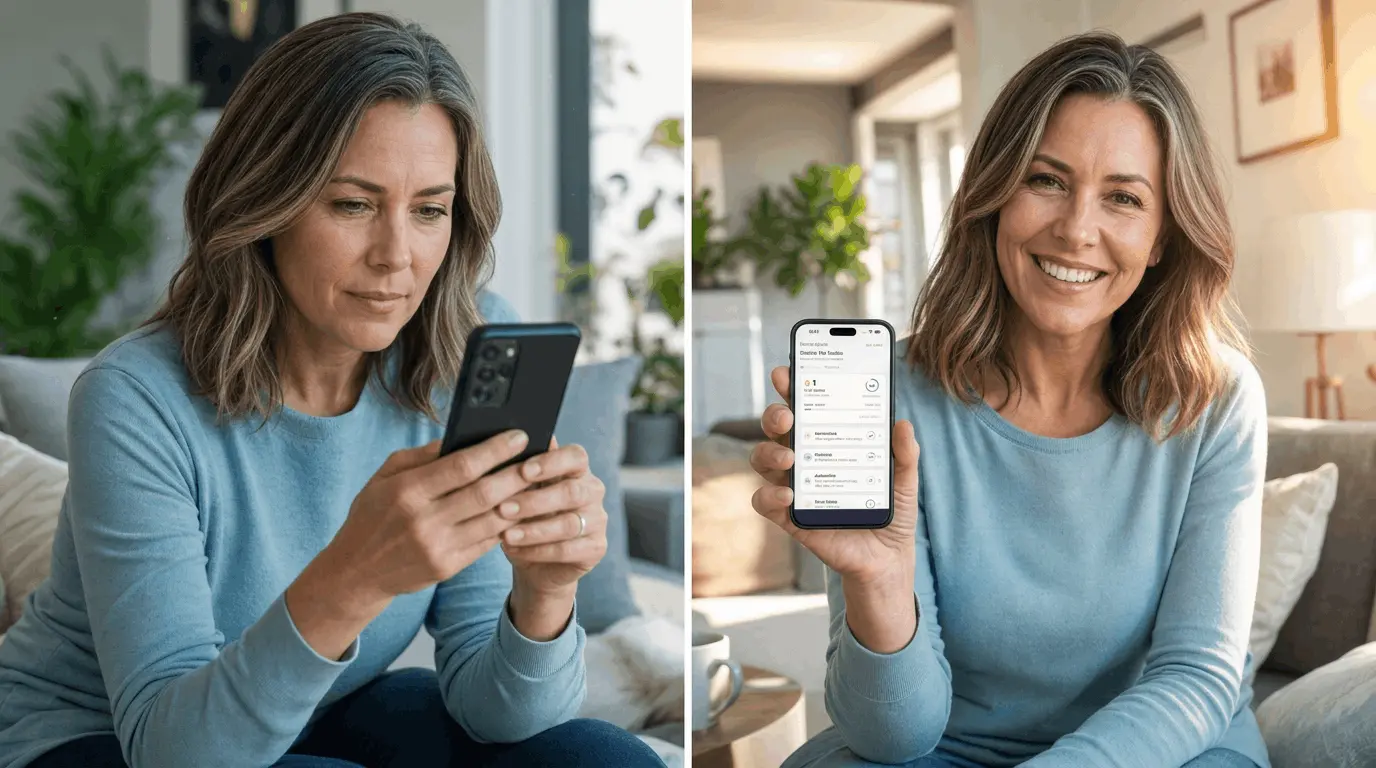
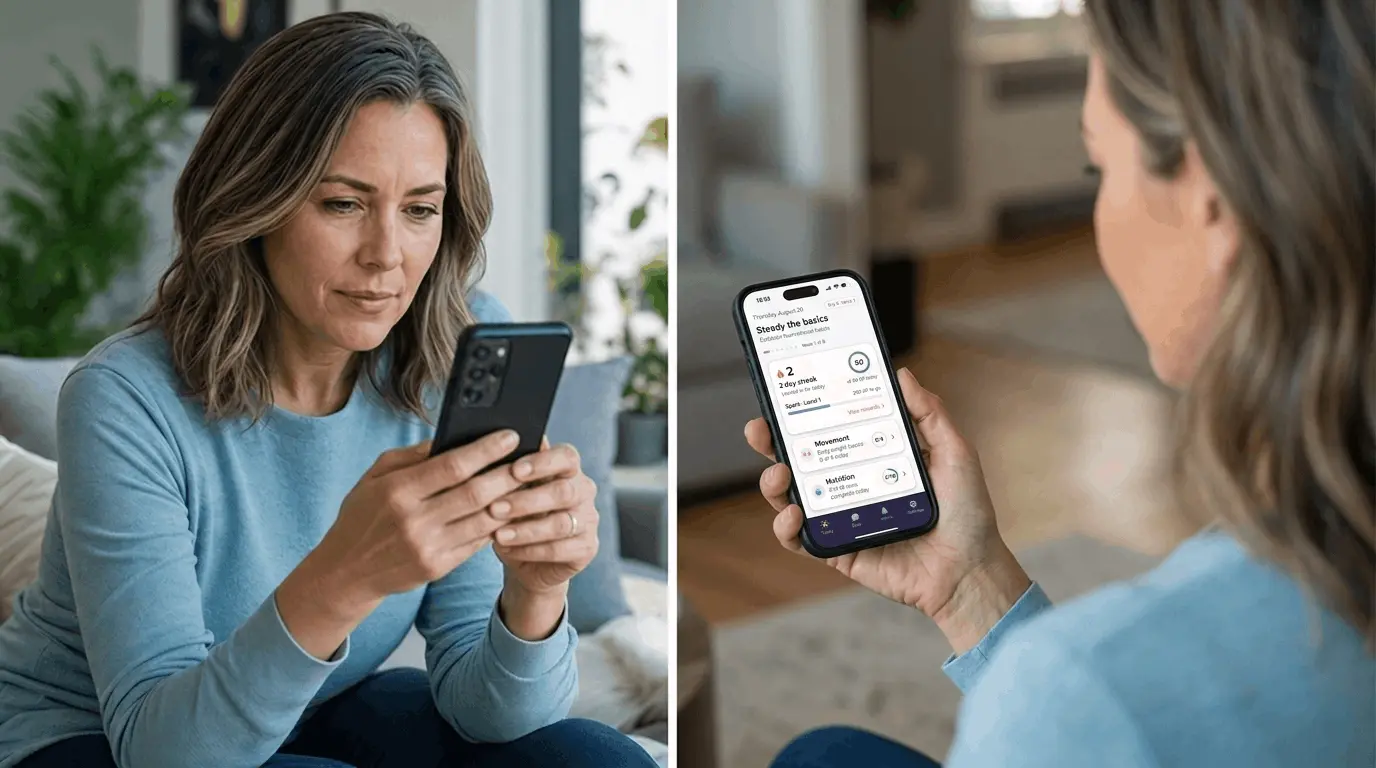
start screen

diff --git a/app/register/page.tsx b/app/register/page.tsx
@@ -3517,9 +3517,12 @@ function RegisterPageContent() {
           least committed. Price, credentials and a testimonial wall still stay
           off this screen. It has to answer three things and nothing else: what
           she walks away with (a personalized 8-week plan), what it costs her
-          (2 minutes), and whether she can actually do it (three tasks anyone
-          can do, 15 minutes a day). The 2026-08-18 pass was about the order and
-          weight of those three, not about adding a fourth.
+          (2 minutes), and whether she can actually do it. The 2026-08-18 pass
+          was about the order and weight of those three, not about adding a
+          fourth; the 2026-08-20 pass cut the screen from seven message blocks
+          to four, because it had grown dense in *mechanism* and thin in
+          *outcome* - seventy words, not one of which said what she walks away
+          with. See the card comment below for what moved downstream and why.
           The one exception is the hero photo (2026-08-17): a
           real before/after - scrolling alone, then holding her plan, smiling -
           so the promise in the headline below is something she sees happen to
@@ -3553,10 +3556,12 @@ function RegisterPageContent() {
                   one transformation - the whole reason it is here. The seam is
                   drawn, the halves are named, and the arrow states the direction,
                   so the before/after is on the screen instead of in the alt text.
-                  The right-hand label is the CTA's "takes 2 minutes" promise
-                  attached to the picture of the payoff, 200px above where she
-                  reads the words. Rose = the load she carries now, green = what
-                  closes it, per the funnel's colour rule. */}
+                  The right-hand label names the *plan* as the thing that closes
+                  the gap. It read "In 2 minutes" until 2026-08-20, which pinned
+                  the screen's strongest outcome image to how long the quiz takes
+                  - and was the third mention of two minutes on one screen. Rose
+                  = the load she carries now, green = what closes it, per the
+                  funnel's colour rule. */}
               <div
                 aria-hidden
                 className="pointer-events-none absolute inset-y-0 left-1/2 w-px -translate-x-1/2 bg-white/70"
@@ -3569,7 +3574,7 @@ function RegisterPageContent() {
                   </span>
                   <span className="flex items-center justify-center gap-1.5 text-[10px] sm:text-[11px] font-bold uppercase tracking-wide text-white">
                     <span className="h-1.5 w-1.5 rounded-full bg-[#4ADE80]" />
-                    In 2 minutes
+                    With your plan
                   </span>
                 </div>
                 <span
@@ -3591,60 +3596,81 @@ function RegisterPageContent() {
             </motion.h1>
 
             {/* The reframe. It has to land before she is asked to do any work -
-                self-blame is what keeps her from starting at all. */}
+                self-blame is what keeps her from starting at all.
+
+                It opened on the symptom list ("The sleep, the weight gain, the
+                mood") until 2026-08-20. That was the most specific thing on the
+                screen and it was spent at 22 words, at the moment she is
+                deciding whether to keep reading at all - and the word
+                "symptoms" now does the same job one block down, where it sells
+                the personalization rather than only naming the problem. */}
             <motion.p
               initial={prefersReducedMotion ? false : { opacity: 0, y: 10 }}
               animate={{ opacity: 1, y: 0 }}
               transition={{ delay: prefersReducedMotion ? 0 : 0.28, duration: 0.4 }}
               className="mt-2.5 text-sm sm:text-base text-[#5A5A5A] leading-snug px-2"
             >
-              The sleep, the weight gain, the mood - it isn&apos;t in your head, and it isn&apos;t your
-              fault. <span className="font-semibold text-[#3D3D3D]">Your hormones changed the
+              It isn&apos;t in your head, and it isn&apos;t your fault.{" "}
+              <span className="font-semibold text-[#3D3D3D]">Your hormones changed the
               rules.</span>
             </motion.p>
 
-            {/* What she actually walks away with.
+            {/* What she actually walks away with - the product, in one card.
 
-                The headline used to lead with "Answer 13 questions" - a cost
-                statement, bolded, above a 2-minute promise set in 11px grey. She
-                read the price of the quiz at full weight and the reassurance at
-                the page's lowest priority. The outcome leads now; the effort
-                moved down to the CTA bar where it belongs, and got readable.
+                Until 2026-08-20 this was a three-column mechanism row (a 10-min
+                walk / protein at breakfast / 2 min of breathing) under the plan
+                promise, closed by "About 15 minutes a day. No gym, no cutting
+                out food groups." Both are good arguments and both belong later:
+                the mechanism is what <PlanStage /> animates on the diagnosis
+                screen, and objection handling only works once an objection
+                exists. Four seconds off a cold ad click she has not decided she
+                wants this yet, so the screen was answering questions she had not
+                asked - and spending the plan screen's ammunition early, which is
+                the mistake the 2026-08-16 pass had just undone on results.
 
-                The row shows each pillar's real `task` rather than its `label`.
-                "Movement / Nutrition / Relaxation" reads to an exhausted
-                45-60 woman as three more disciplines to fail at - a gym, a diet
-                and a meditation practice. "10-min walk / 25-30g protein at
-                breakfast / 4-7-8 breathing" is the same three pillars stated as
-                things anyone can do today, which is the whole point of the
-                screen. The data is already in PLAN_PILLARS; only the field
-                changed. The closing line is the daily budget the plan screen
-                already quotes, promoted out of 2.85:1 grey. */}
+                What replaced them is the outcome the plan is actually bought
+                for, in the funnel's own words: GOAL_PROMISE's generic fallback
+                is "Feel like yourself again", which closes the exact sentence
+                the headline opens with. Two checks, not three - three reads as a
+                list to skim, two reads as a promise. The first sells the
+                personalization, i.e. the only reason to answer a dozen
+                questions rather than download a generic PDF;
+                the second is the "can I actually do this" answer the 15-minutes
+                line used to carry, at one clause instead of a row plus a
+                sentence.
+
+                Green on the checks per the funnel's colour rule - the plan is
+                what closes the gap. Pink stays on the CTA and nothing else.
+
+                Deliberately absent: her wellbeing score. It is a fear device for
+                the results screen, and teasing it here as the payoff would sell
+                the diagnosis instead of the plan - see the header of
+                lib/planTimeline.ts, which refuses it at the paywall for exactly
+                the same reason. */}
             <motion.div
               initial={prefersReducedMotion ? false : { opacity: 0, y: 10 }}
               animate={{ opacity: 1, y: 0 }}
               transition={{ delay: prefersReducedMotion ? 0 : 0.4, duration: 0.4 }}
-              className="mt-5 w-full rounded-2xl border border-foreground/10 bg-card px-4 py-3.5 shadow-sm"
+              className="mt-5 w-full rounded-2xl border border-foreground/10 bg-card px-4 py-4 shadow-sm"
             >
               <p className="text-base sm:text-lg font-bold text-[#3D3D3D] leading-snug">
-                Your <HighlightSweep>personalized {PLAN_WEEKS}-week plan</HighlightSweep>,
-                built around your symptoms
+                Your <HighlightSweep>personalized {PLAN_WEEKS}-week plan</HighlightSweep> to
+                feel like yourself again
               </p>
-              <div className="mt-3.5 flex items-start justify-center gap-2 sm:gap-4">
-                {PLAN_PILLARS.slice(0, 3).map((pillar) => (
-                  <div key={pillar.key} className="flex flex-col items-center gap-1.5 w-[5.25rem]">
-                    <span className={cn("flex h-9 w-9 shrink-0 items-center justify-center rounded-full", pillar.chip)}>
-                      <pillar.icon className={cn("w-4 h-4", pillar.tint)} />
-                    </span>
-                    <span className="text-xs font-medium text-[#5A5A5A] leading-tight">
-                      {pillar.short}
-                    </span>
-                  </div>
-                ))}
-              </div>
-              <p className="mt-3.5 text-xs text-[#5A5A5A] leading-snug">
-                About 15 minutes a day. No gym, no cutting out food groups.
-              </p>
+              <ul className="mt-3 flex flex-col gap-2 text-left">
+                <li className="flex items-start gap-2">
+                  <Check className="mt-0.5 h-4 w-4 shrink-0 text-[#16A34A]" strokeWidth={3} />
+                  <span className="text-sm text-[#5A5A5A] leading-snug">
+                    Built around the symptoms hitting you hardest
+                  </span>
+                </li>
+                <li className="flex items-start gap-2">
+                  <Check className="mt-0.5 h-4 w-4 shrink-0 text-[#16A34A]" strokeWidth={3} />
+                  <span className="text-sm text-[#5A5A5A] leading-snug">
+                    A few small steps a day, from week 1 to week {PLAN_WEEKS}
+                  </span>
+                </li>
+              </ul>
             </motion.div>
 
           </motion.div>
@@ -3665,19 +3691,25 @@ function RegisterPageContent() {
           animates opacity only, so it never becomes the containing block for a
           fixed child - the four other phases already pin bars inside it.
 
-          The sub-line carries all three of the screen's cost answers at a size
-          she can actually read (13px #5A5A5A is 6.9:1; the 11px #9A9A9A it
-          replaces was 2.85:1, i.e. the hardest text on the page belonged to the
-          audience least able to resolve it). "Free quiz" rather than "free to
-          take", which sat one line under the plan promise and could be read as
-          the plan being free 90 seconds before a $59 paywall. "Taps" rather
-          than "questions" because 8 of the 13 steps are auto-advancing image
-          tiles and only q_body and q8_name type anything - and because the
-          count is a cost, so it belongs here at footnote weight rather than
-          bolded above the outcome. "No email needed" is the funnel's strongest
-          unused fact: she genuinely gives no address until Stripe (see
-          "Anonymous accounts"), and "will they spam me" is a top objection on a
-          cold ad click. */}
+          The sub-line answers "what does this cost me" at a size she can
+          actually read (13px #5A5A5A is 6.9:1; the 11px #9A9A9A it replaces was
+          2.85:1, i.e. the hardest text on the page belonged to the audience
+          least able to resolve it). "Free quiz" rather than "free to take",
+          which sat one line under the plan promise and could be read as the plan
+          being free 90 seconds before a $59 paywall. "No email needed" is the
+          funnel's strongest unused fact: she genuinely gives no address until
+          Stripe (see "Anonymous accounts"), and "will they spam me" is a top
+          objection on a cold ad click.
+
+          It read "Free quiz - 2 minutes - {QUESTION_STEPS.length} taps - no
+          email needed" until 2026-08-20. The count was the only pure *cost* in
+          the line - the other three items are all things she gets - and it was
+          stated at the exact moment she decides whether to start at all.
+          "2 minutes" already answers the same question in the unit she cares
+          about, so the count bought nothing and priced the quiz twice. (It said
+          "taps" rather than "questions" for a good reason, which still holds if
+          it ever comes back: 8 of the steps are auto-advancing image tiles and
+          only q_body and q8_name type anything.) */}
       {phase === "start" && (
         <motion.div
           initial={prefersReducedMotion ? false : { opacity: 0, y: 10 }}
@@ -3696,7 +3728,7 @@ function RegisterPageContent() {
               <ArrowRight className="w-4 h-4" />
             </button>
             <p className="text-xs text-[#5A5A5A] text-center mt-2 leading-snug">
-              Free quiz · 2 minutes · {QUESTION_STEPS.length} taps · no email needed
+              Free quiz · 2 minutes · no email needed
             </p>
           </div>
         </motion.div>

diff --git a/lib/planPillars.ts b/lib/planPillars.ts
@@ -2,10 +2,16 @@
  * The shape of the plan: the four things she does each day, and the arc those
  * days follow over the {@link PLAN_WEEKS} weeks.
  *
- * Shared by the /register start screen (which shows three pillars as the
- * promise) and <PlanStage />, which animates both of these *inside* the plan
- * scroll on the diagnosis screen. They used to be two static grids stacked
+ * Shared by the /register diagnosis screen (the four-icon row on the
+ * plan-is-ready card) and <PlanStage />, which animates both of these *inside*
+ * the plan scroll on the same screen. They used to be two static grids stacked
  * under the scroll; the data is the same, the staging isn't.
+ *
+ * The start screen used to render the first three as its promise, via a `short`
+ * field written for its ~84px columns. That row was cut on 2026-08-20 - naming
+ * the mechanism before she has decided she wants the outcome is the diagnosis
+ * screen's job - and `short` went with it rather than sitting here as a field
+ * nothing reads.
  */
 import { CheckCircle2, Footprints, Salad, Wind, type LucideIcon } from "lucide-react";
 
@@ -20,19 +26,13 @@ export type PlanPillar = {
   /** A real task off a plan day. This is what the app actually asks of her,
       so it has to read like a to-do, not like a benefit. */
   task: string;
-  /** The same task at start-screen width. The start screen shows these three
-      abreast in ~84px columns, where `task` wraps to four lines and its
-      precision ("25-30g") reads as a rule to obey rather than a thing anyone
-      can do - the opposite of what that screen needs. <PlanStage /> keeps the
-      exact version, because by then she has bought the specificity. */
-  short: string;
 };
 
 export const PLAN_PILLARS: PlanPillar[] = [
-  { key: "movement",   label: "Movement",    icon: Footprints,   tint: "text-sky-500",     chip: "bg-sky-100",     task: "10-min walk",                short: "A 10-min walk" },
-  { key: "nutrition",  label: "Nutrition",   icon: Salad,        tint: "text-emerald-500", chip: "bg-emerald-100", task: "25-30g protein at breakfast", short: "Protein at breakfast" },
-  { key: "relaxation", label: "Relaxation",  icon: Wind,         tint: "text-violet-500",  chip: "bg-violet-100",  task: "4-7-8 breathing",            short: "2 min of breathing" },
-  { key: "habits",     label: "Your habits", icon: CheckCircle2, tint: "text-primary",     chip: "bg-primary/10",  task: "Lights out by 10:30",        short: "Lights out by 10:30" },
+  { key: "movement",   label: "Movement",    icon: Footprints,   tint: "text-sky-500",     chip: "bg-sky-100",     task: "10-min walk" },
+  { key: "nutrition",  label: "Nutrition",   icon: Salad,        tint: "text-emerald-500", chip: "bg-emerald-100", task: "25-30g protein at breakfast" },
+  { key: "relaxation", label: "Relaxation",  icon: Wind,         tint: "text-violet-500",  chip: "bg-violet-100",  task: "4-7-8 breathing" },
+  { key: "habits",     label: "Your habits", icon: CheckCircle2, tint: "text-primary",     chip: "bg-primary/10",  task: "Lights out by 10:30" },
 ];
 
 export type PlanPhase = {
